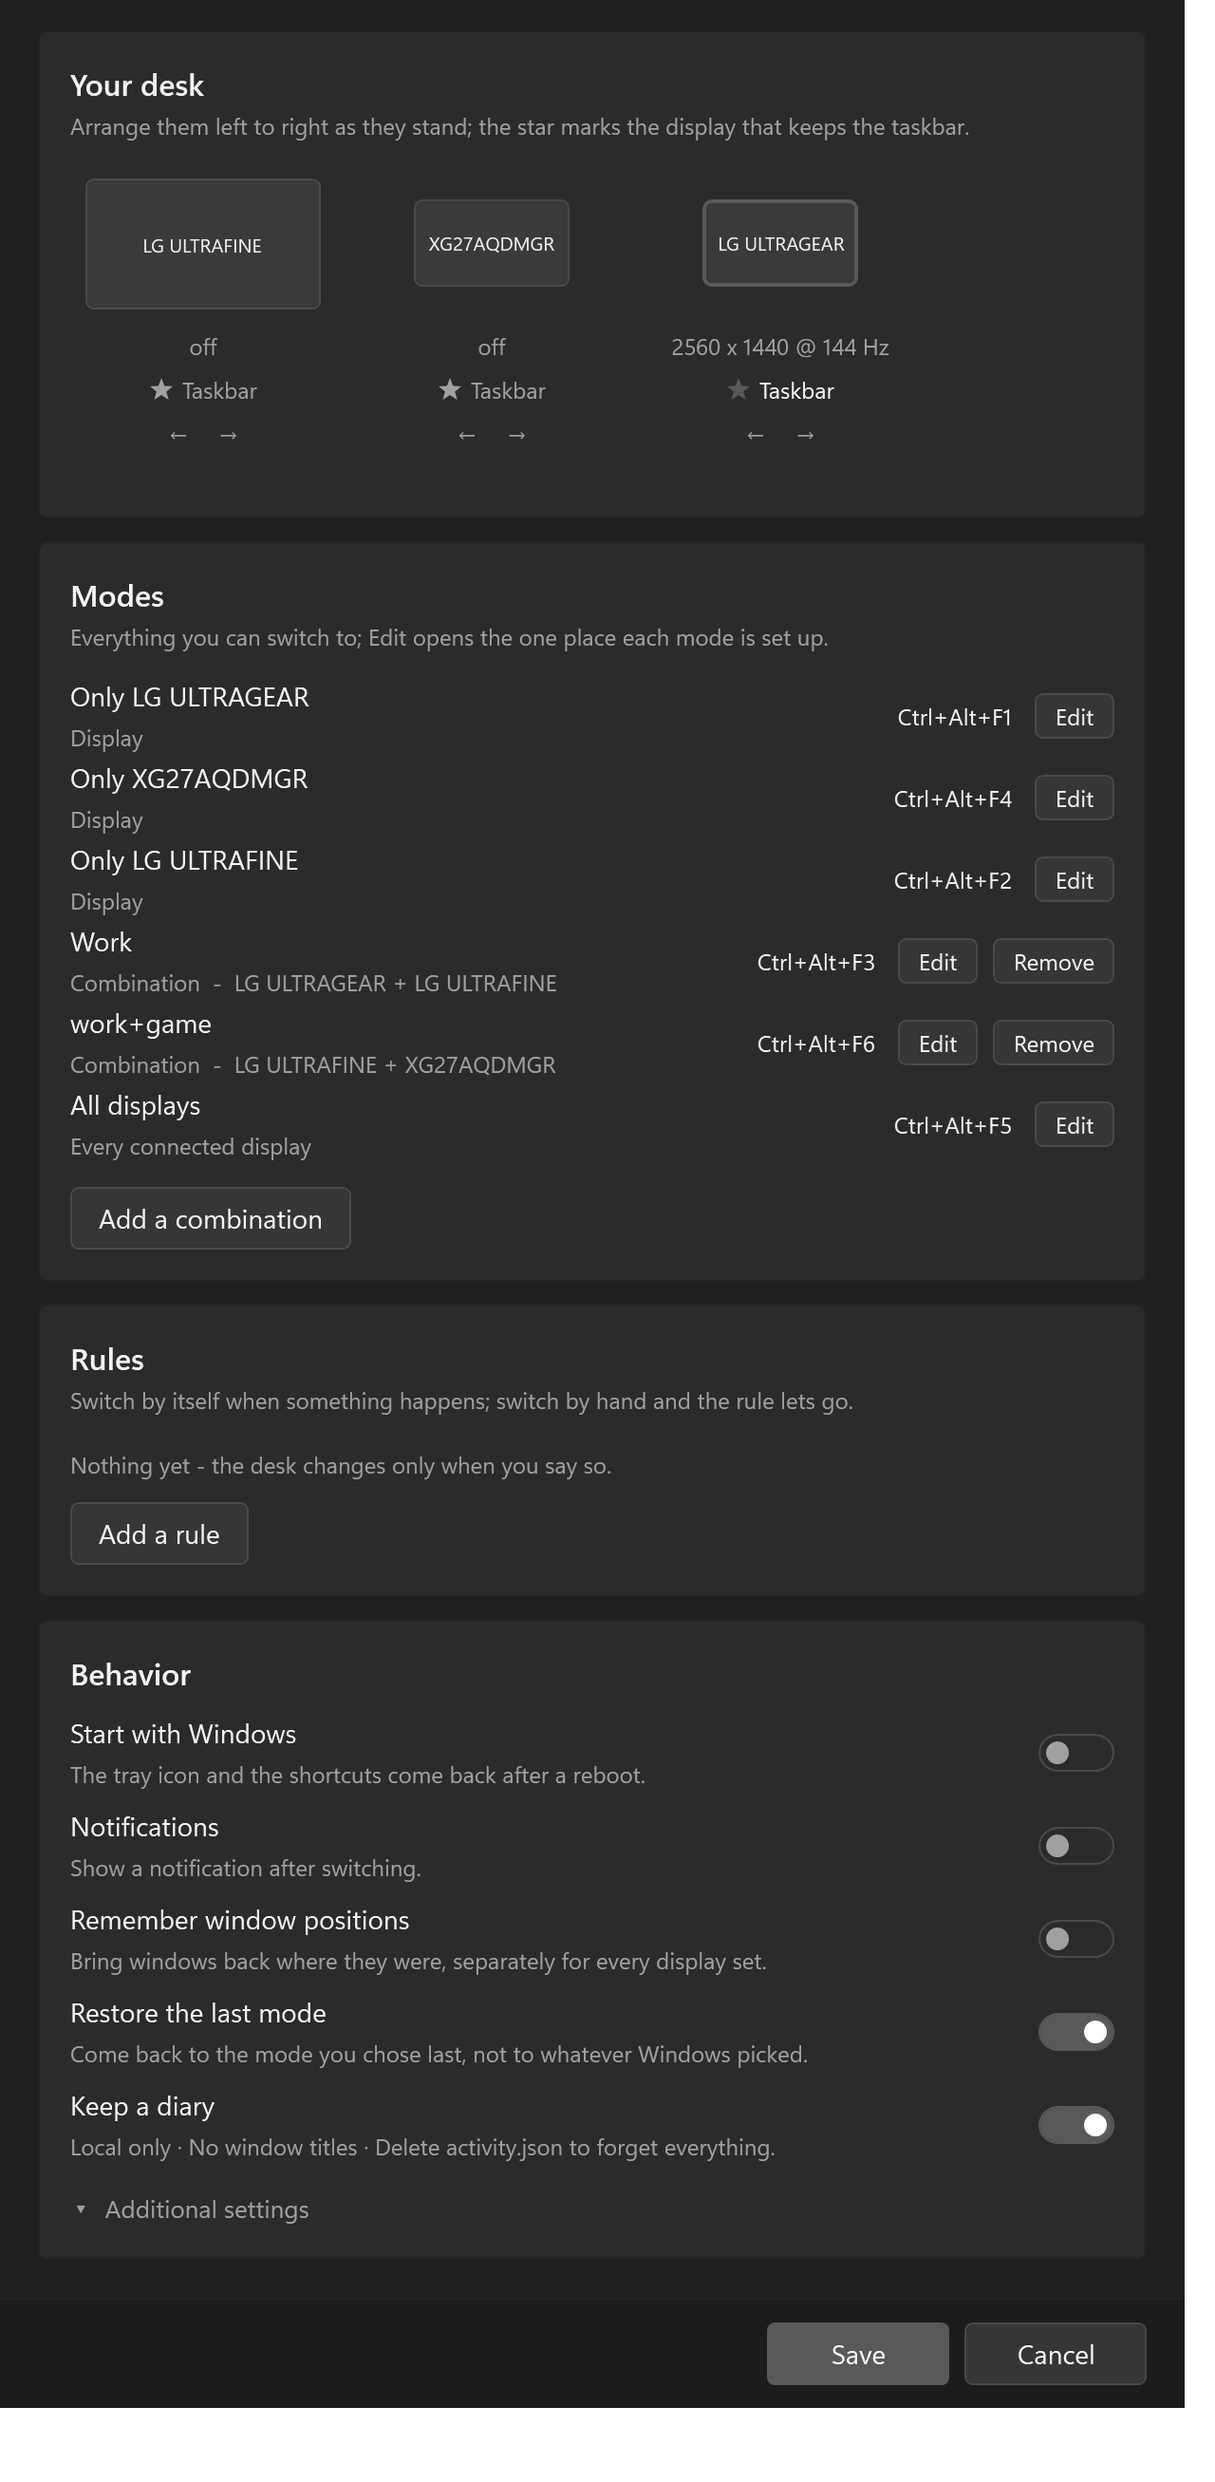
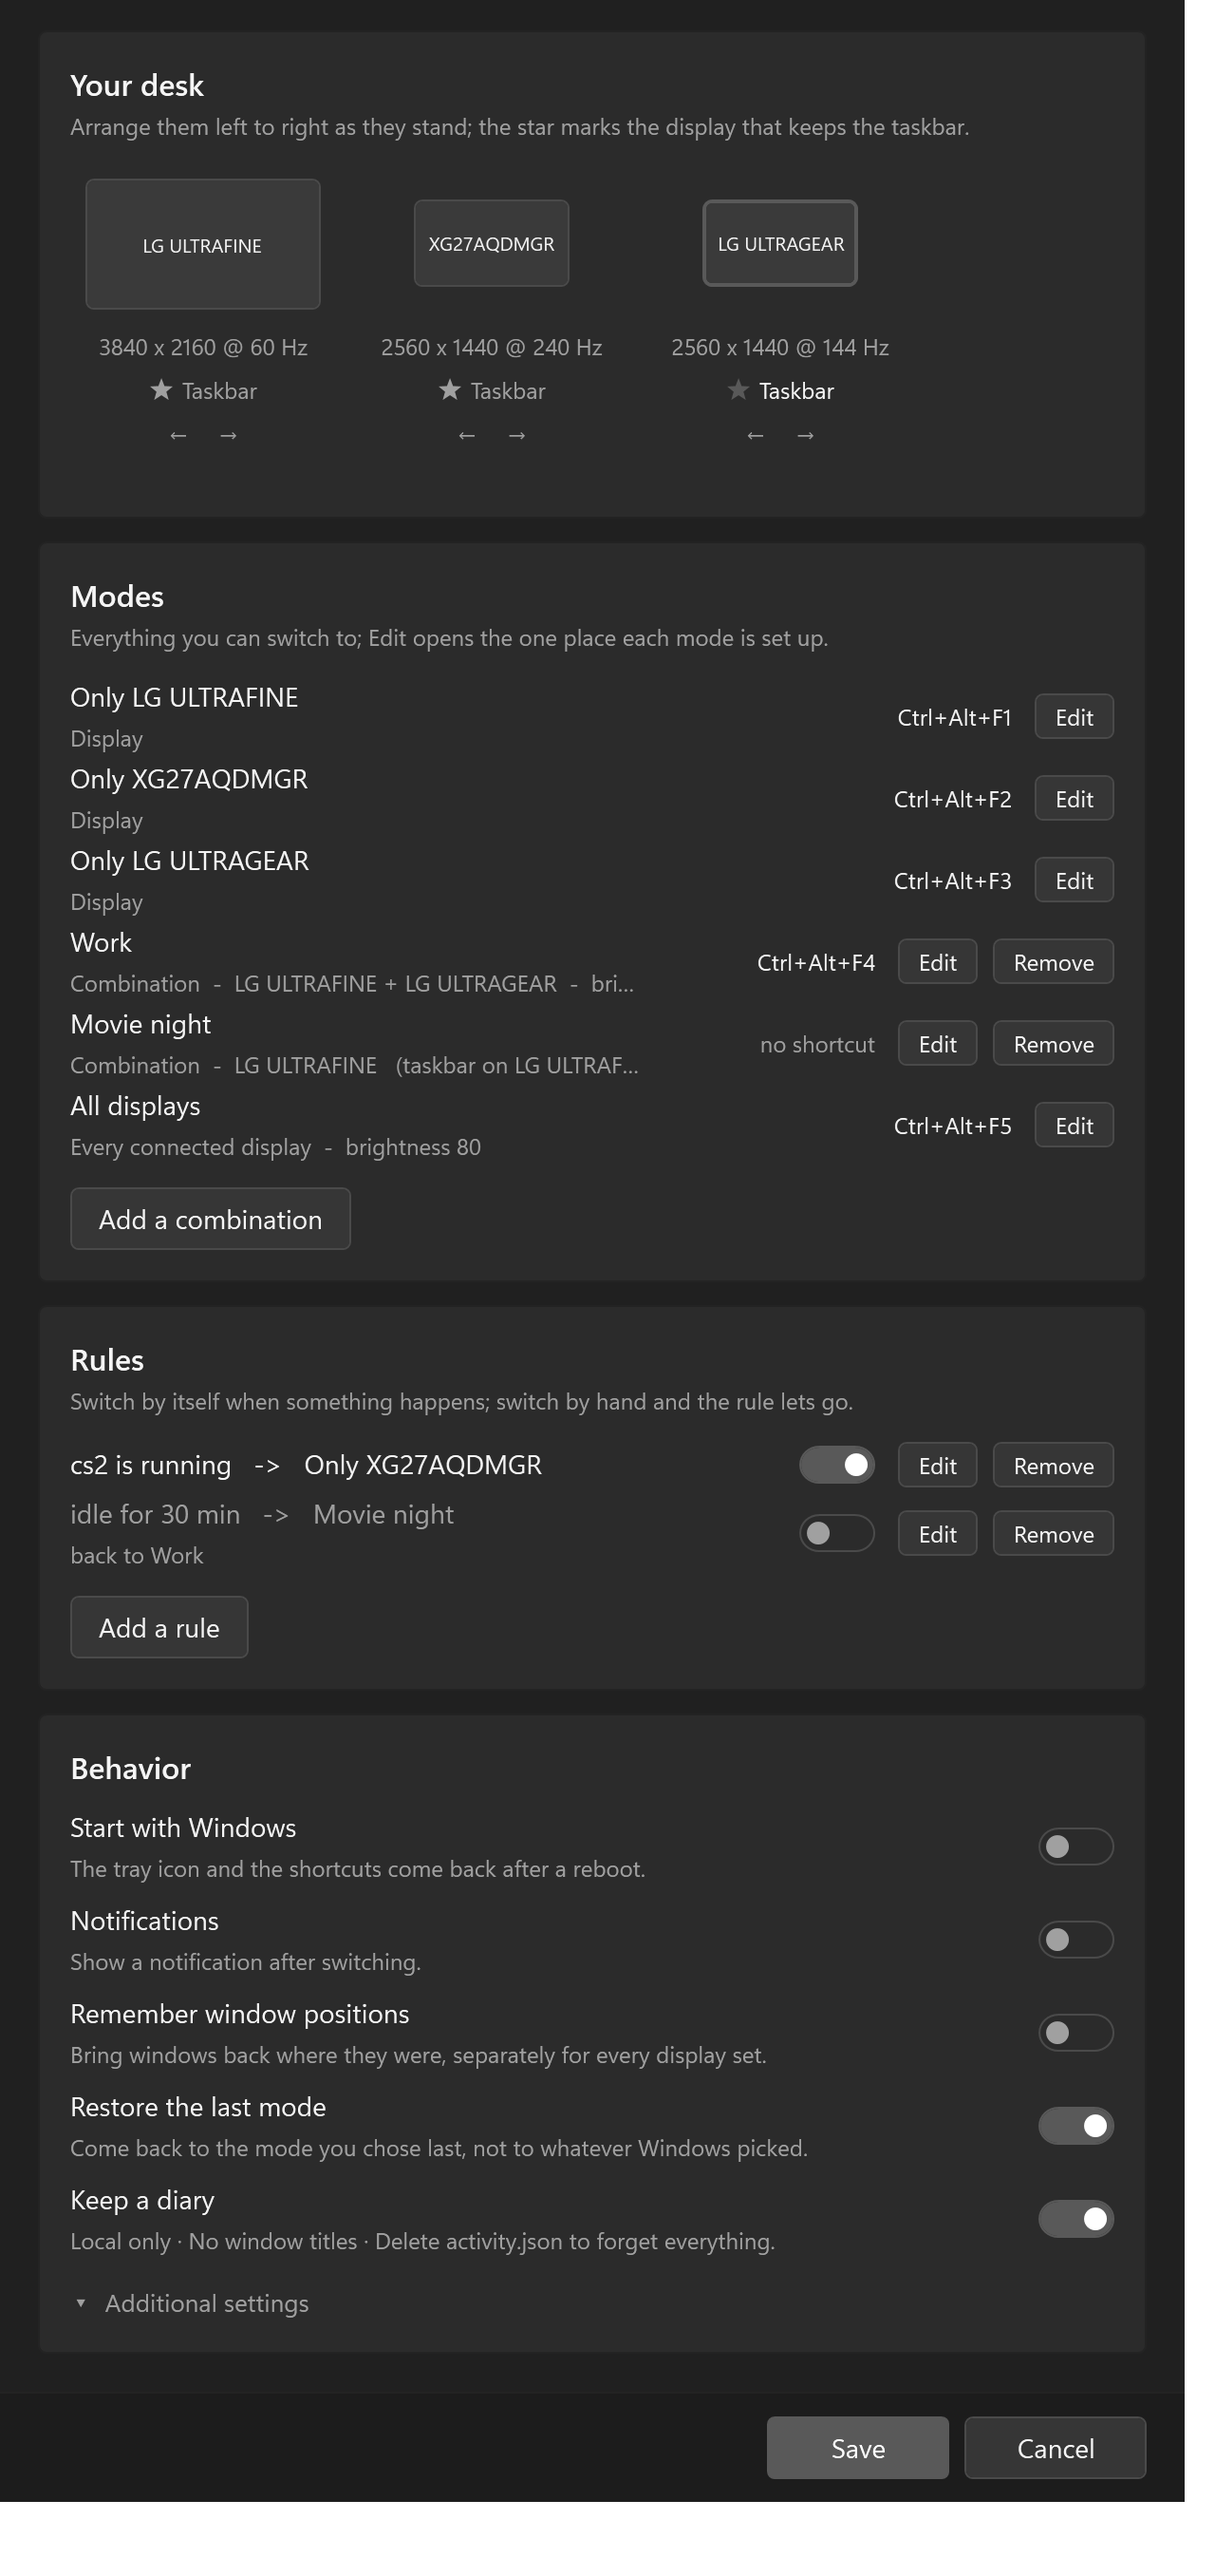
The mode editor folds away what a mode does to the hardware
The editor had grown to 1199 points - a window and a half on a 1440p screen -
because four sections had been added to it and none of them was ever the reason
somebody opened it. What a mode IS stays in sight: its name, its displays, where
the taskbar goes and the keys that reach it. What it does to the hardware -
brightness, contrast, the playback device, the commands - sits behind one line.
An editor with nothing set is 615 points now, half of what it was.

It opens by itself when the mode already has any of them set, including one
inherited from the name just typed. That is not a convenience: those fields are
read on Save and an empty one erases, so a setting folded out of sight is the
exact bug Sync-EditorInheritance exists to prevent. It only ever opens, and never
against somebody who worked the fold themselves - without that guard, shutting it
while a brightness is set would spring it open again on the next keystroke in the
name box.

The fold itself is one function for both windows now rather than a copy each.

render-preview.ps1's -Fake settings seed contrast, a device, a command and two
rules as well as the brightness they already seeded, for the reason the comment
there already gave: the images should show these sections doing their job instead
of standing empty. That also gives the README screenshots a populated Rules card
and an editor with its fold open.

diff --git a/AGENTS.md b/AGENTS.md
@@ -72,17 +72,17 @@ new file of the program ships by itself, a new file for us has to be named there
 | File | Lines | Go here for |
 | --- | --- | --- |
 | `DisplayCore.ps1` | 5222 | the engine: state, switching, modes, brightness, rules, hooks. Embedded C# 810-2042, the compiled-assembly cache 2044-2153, `Switch-DisplayMode` at 3990 |
-| `SettingsDialog.ps1` | 4524 | all WPF: the Settings window, the mode editor, the rule editor, the timer popup and the diary window. Building a window is separated from showing it so tests can build one and never show it |
+| `SettingsDialog.ps1` | 4606 | all WPF: the Settings window, the mode editor, the rule editor, the timer popup and the diary window. Building a window is separated from showing it so tests can build one and never show it |
 | `Displays.ps1` | 1508 | the app: tray icon, menu, hotkey registration, watchdogs, timers |
 | `Activity.ps1` | 583 | the diary, the report both the window and the page are built from, and that page |
 | `Set-Display.ps1` | 218 | the command line: argument parsing and printing, no logic |
 | `WindowLayout.ps1` | 228 | window-position snapshots per display set |
-| `render-preview.ps1` | 252 | dev tool: renders all five windows to PNG without showing them |
+| `render-preview.ps1` | 269 | dev tool: renders all five windows to PNG without showing them |
 | `Make-Icon.ps1` | 150 | dev tool: regenerates `app.ico` |
 | `tools/check.ps1` | 234 | the four gates, and the only answer to "am I done" |
 | `tools/trace-displays.ps1` | 132 | dev tool: our log and Windows' `Kernel-PnP` 1010 in one timeline. The Windows side is the only place a display leaving the bus by itself is written down |
 | `tools/pack.ps1` | 211 | the release archive: what the user downloads, built from `git ls-files` |
-| `tests/` | — | the runner (107), the framework (79), the fakes (131), 39 files of cases (6269) and `live.ps1` (252) |
+| `tests/` | — | the runner (107), the framework (79), the fakes (131), 39 files of cases (6367) and `live.ps1` (252) |
 | `docs/notes.md` | 2214 | the engineering diary: what Windows actually does, measured, day by day |
 
 Line counts are signposts, not contracts — they drift. `docs/notes.md` is the place

diff --git a/README.md b/README.md
@@ -73,9 +73,10 @@ is configured; the settings with a right default are folded under **Additional s
 
 ![The Settings window](https://raw.githubusercontent.com/GangHack/ScreenDeck/main/docs/images/settings.png)
 
-The mode editor holds everything one mode owns — which displays it turns on, where the
-taskbar goes, its shortcut, the brightness and contrast of its monitors, the playback device
-it switches the sound to, and the commands it runs around a switch:
+The mode editor holds everything one mode owns. What the mode IS stays in sight — its name,
+its displays, where the taskbar goes and the keys that reach it; what it does to the hardware
+— brightness, contrast, the playback device and the commands — is folded under one line, and
+unfolds by itself for a mode that already has any of them set:
 
 ![The mode editor](https://raw.githubusercontent.com/GangHack/ScreenDeck/main/docs/images/settings-mode.png)
 

diff --git a/CHANGELOG.md b/CHANGELOG.md
@@ -40,6 +40,12 @@ in the tray menu — that line is the right thing to paste into a bug report.
   whether the fold is open or shut.
 - With the two together the window fits a 1440p screen without a scrollbar again, Rules card and
   all: 1221 points on a fresh desk and 1307 with a couple of combinations, against a 1352 limit.
+- **The mode editor folds too.** What a mode *is* stays in sight — its name, its displays, the
+  taskbar and the shortcut. What it does to the hardware — brightness, contrast, the playback
+  device and the commands — sits behind **Brightness, sound and commands**, which halves the
+  editor: 615 points instead of 1199. It **opens by itself** for a mode that has any of them set,
+  including one inherited from a name just typed, because a setting nobody can see is a setting
+  an empty field then erases.
 
 ### Rules are a list you can see
 
